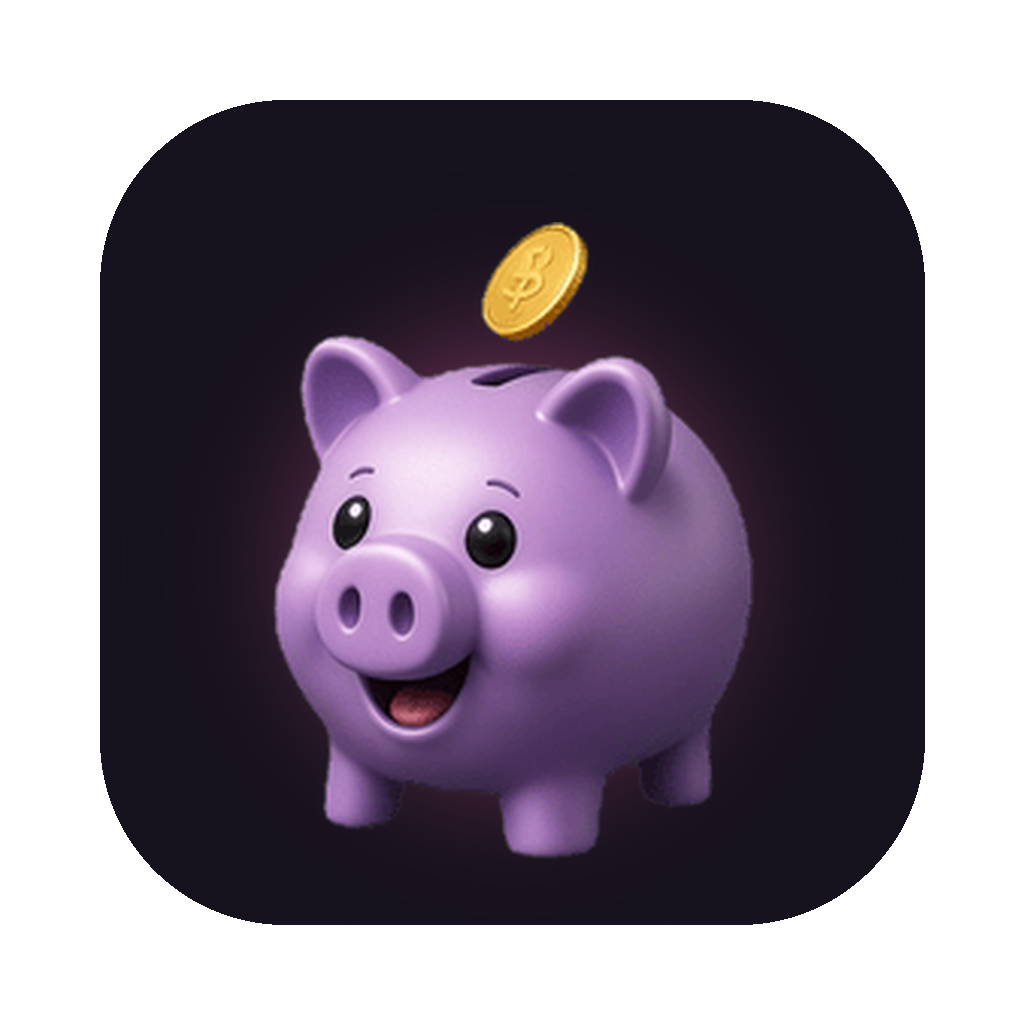
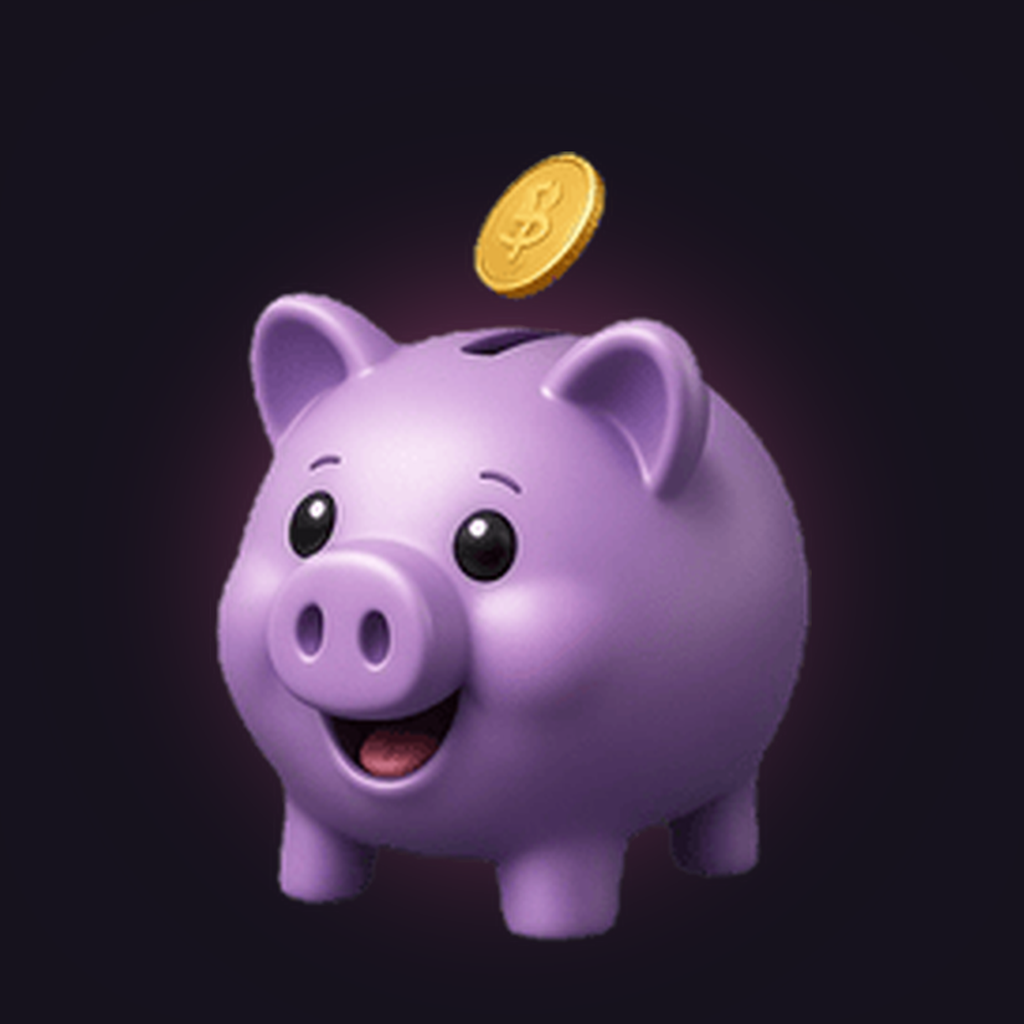
iPhone: onboarding na carteira vazia, aviso de não recomendação, Sobre com link de privacidade, ícone 1024 sem transparência

diff --git a/mobile/src/app/(tabs)/index.tsx b/mobile/src/app/(tabs)/index.tsx
@@ -61,11 +61,18 @@ export default function Home() {
           {!live && !isTradingHours() && <Txt style={{ color: T.bg, fontSize: 12 }}>A bolsa está fechada agora</Txt>}
         </Pressable>
       )}
-      {empty && <Card><Txt>Cadastre a carteira na aba Cadastro. Tudo fica só neste iPhone.</Txt></Card>}
+      {empty && <Card>
+        <SectionTitle first>Boas-vindas ao Pilinha</SectionTitle>
+        {[['pencil-outline', 'Cadastre seus investimentos na aba Cadastro: renda fixa, ações, FIIs e cripto.'],
+          ['refresh', 'Puxe a tela para atualizar as cotações de fontes públicas.'],
+          ['cellphone-lock', 'Tudo fica só neste iPhone. Não há conta nem login.']].map(([i, t]) => (
+          <View key={i} style={{ flexDirection: 'row', gap: S.md, alignItems: 'center' }}><MaterialCommunityIcons name={i as any} size={20} color={T.pink} /><Txt style={{ flex: 1 }}>{t}</Txt></View>))}
+      </Card>}
       <Stale errors={snap?.errors} />
       {settings.goal ? <Goal total={tot} target={settings.goal} hidden={hidden} /> : null}
       <Week points={lastDays(history, 7)} hidden={hidden} />
       {snap && <Movers m={topMovers(snap.items, 3)} />}
+      <Txt dim style={{ textAlign: 'center', fontSize: 11 }}>Valores estimados para acompanhamento. Não é recomendação de investimento.</Txt>
       {snap && <Txt dim style={{ textAlign: 'center', fontSize: 12 }}>Atualizado {snap.updatedAt.toLocaleTimeString('pt-BR')} · puxe para atualizar</Txt>}
     </ScrollView>
   );

diff --git a/mobile/src/app/ajustes.tsx b/mobile/src/app/ajustes.tsx
@@ -32,6 +32,11 @@ export default function Ajustes() {
         <ToggleRow label="Exigir ao abrir o app" hint="Também ao voltar do segundo plano" value={settings.faceOnOpen} onChange={v => toggle('faceOnOpen', v)} />
         <ToggleRow label="Exigir para mostrar valores" hint="Ao tocar no patrimônio com os valores escondidos" value={settings.faceOnReveal} onChange={v => toggle('faceOnReveal', v)} />
       </Card>
+      <Card>
+        <SectionTitle first>Sobre</SectionTitle>
+        <Txt dim style={{ fontSize: 13 }}>O Pilinha é uma ferramenta de acompanhamento. Os valores são estimativas com base em cotações públicas (B3 via Yahoo/brapi, Banco Central, Tesouro Direto e CoinGecko) e podem diferir do extrato da corretora. Não é recomendação de investimento.</Txt>
+        <Txt dim style={{ fontSize: 13 }}>Seus dados ficam só neste iPhone. Política de privacidade e suporte: pamteech.github.io/pilinha</Txt>
+      </Card>
     </Screen>
   );
 }
